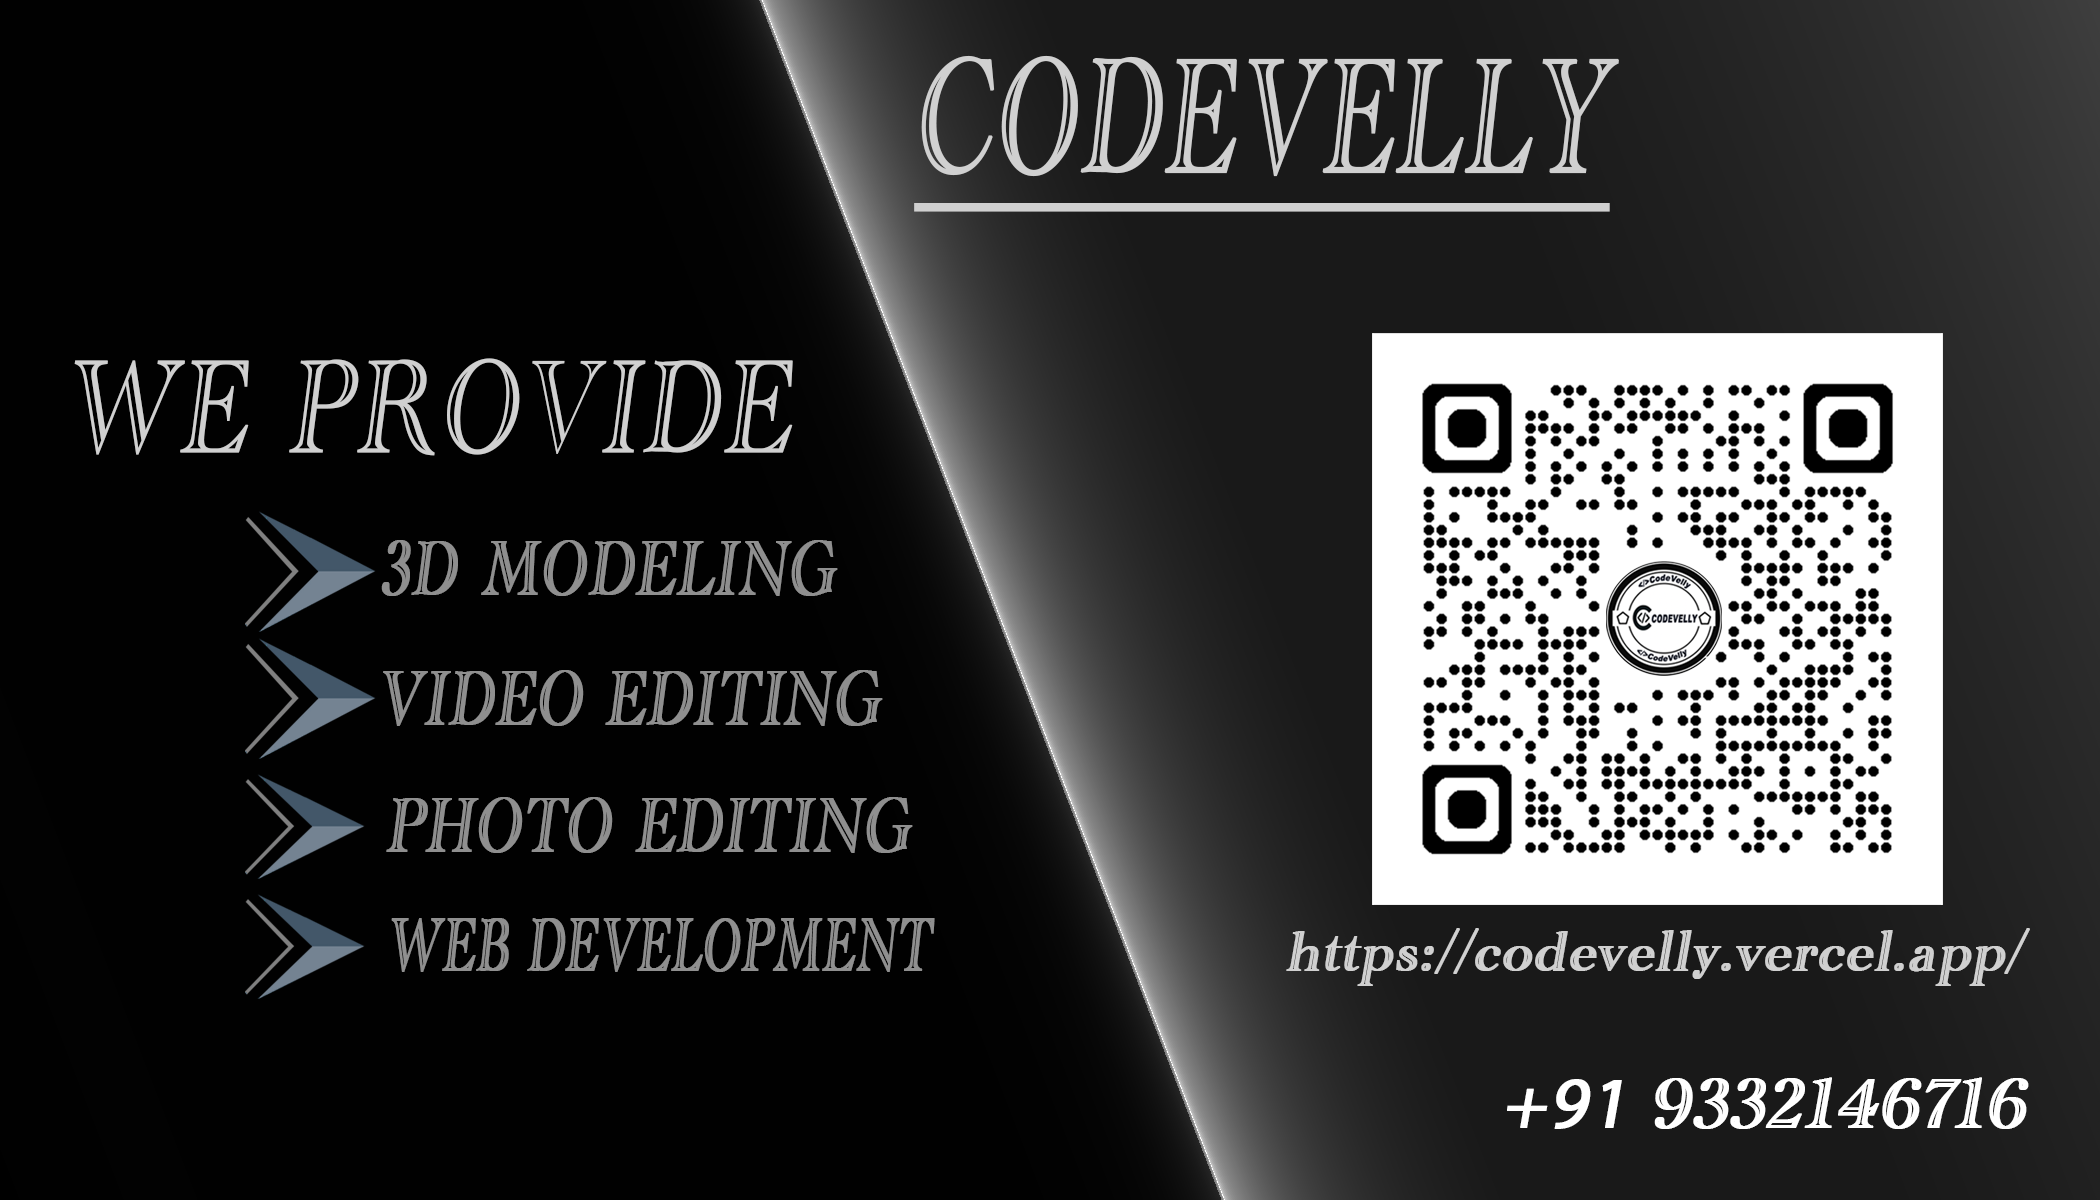
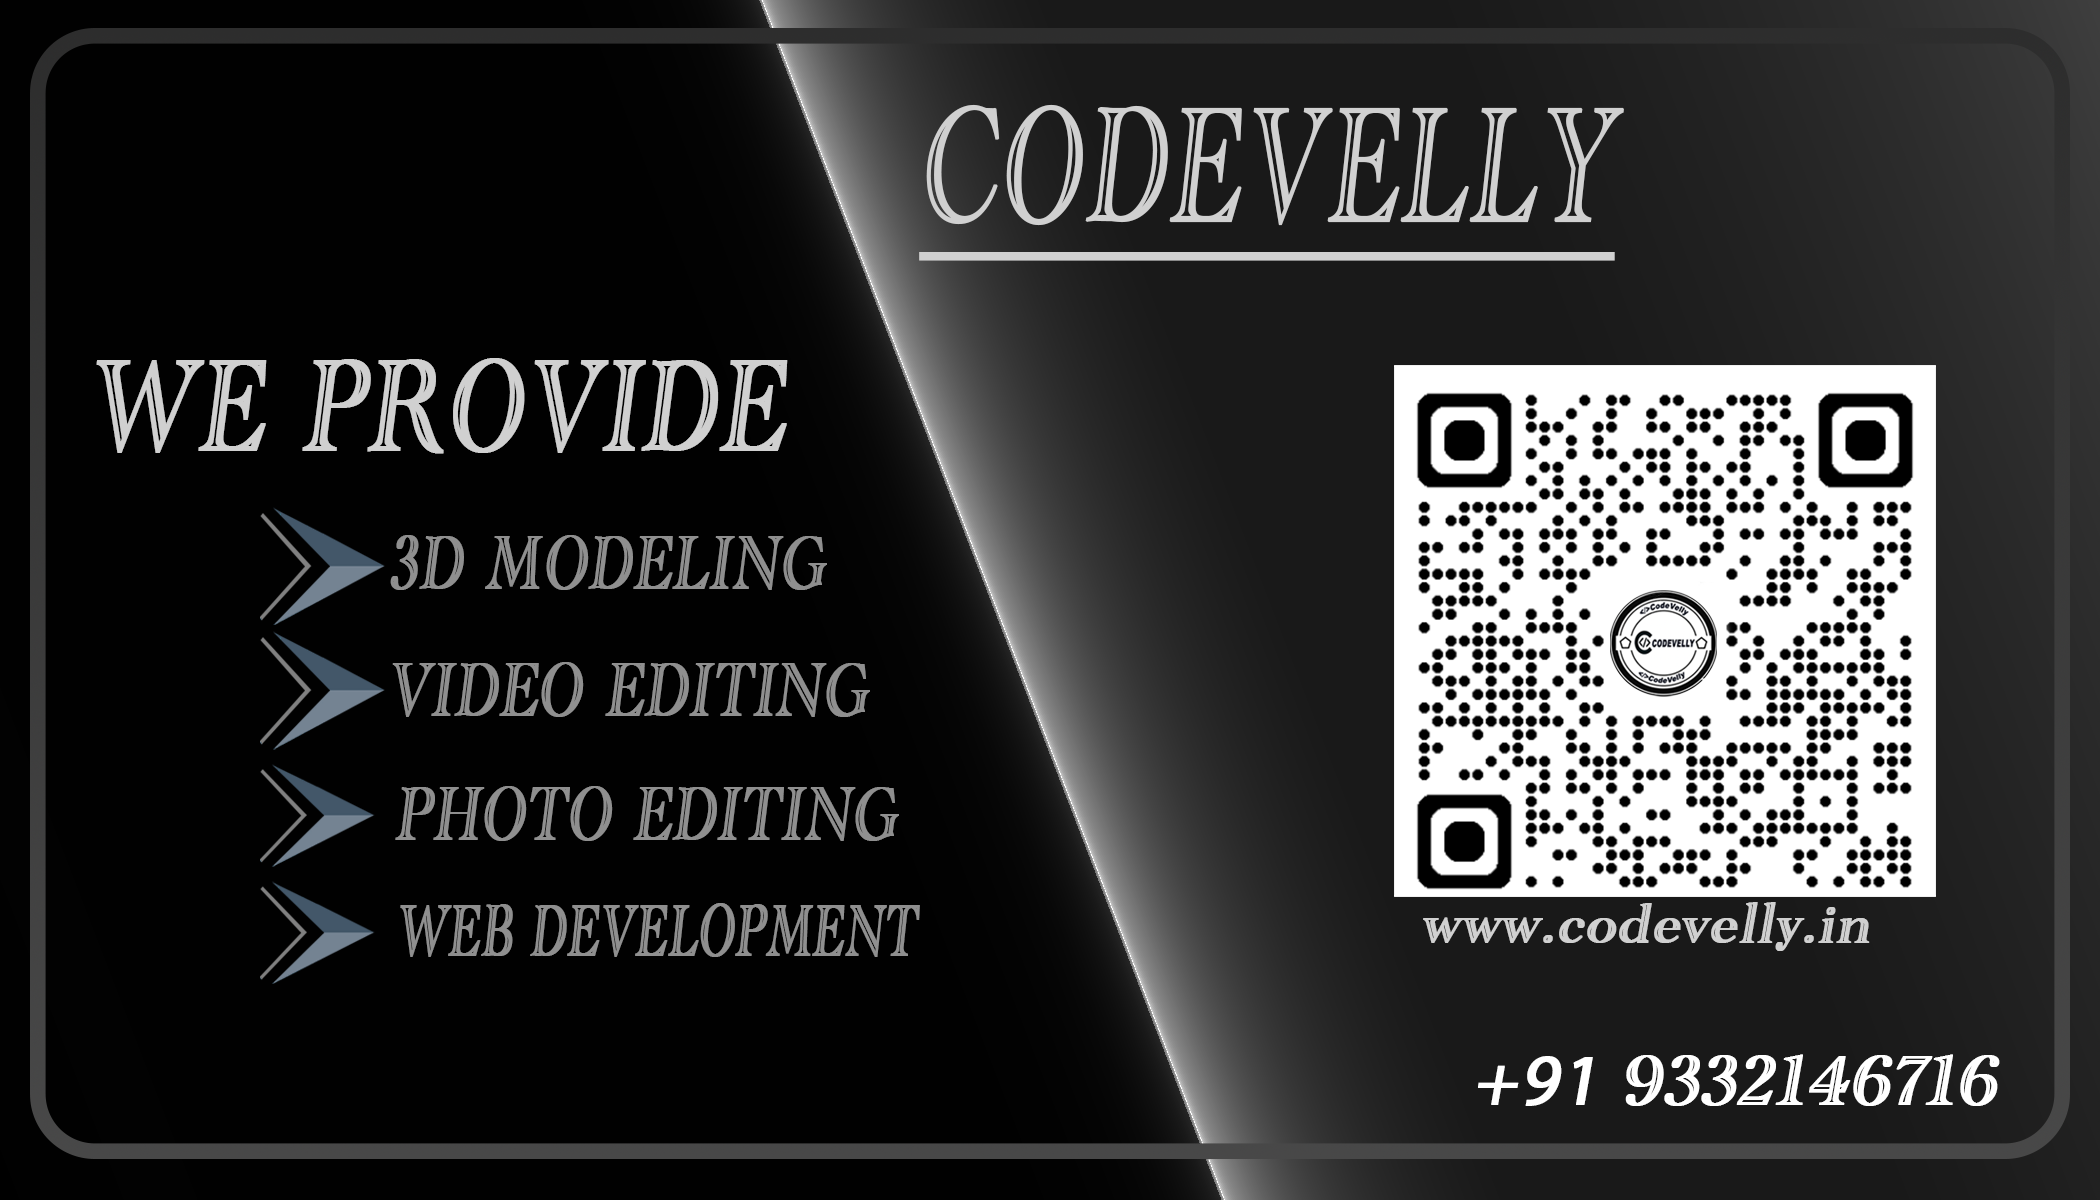
Add files via upload

diff --git a/index.html b/index.html
@@ -4,7 +4,7 @@
 <head>
     <meta charset="UTF-8">
     <meta name="viewport" content="width=device-width, initial-scale=1.0">
-    <title>codevelly BSN card</title>
+    <title>Document</title>
     <link rel="stylesheet" href="style.css">
 </head>
 
@@ -16,17 +16,17 @@
         <div id="crd" class="card">
             <div class="front">
 
-                <img class="img1" src="/Ass/BUSINESS_CARD_FRONT.png" alt="">
+                <img class="img1" src="Ass/BUSINESS_CARD_FRONT.png" alt="">
             </div>
 
             <div class="back">
 
-                <img class="img2" src="/Ass/BUSINESS_CARD_BACK.png" alt="">
+                <img class="img2" src="Ass/BUSINESS_CARD_BACK.png" alt="">
 
             </div>
         </div>
         <div class="Qr">
-            <img id="qrr" class="qr" src="/Ass/re.png" alt="">
+            <img id="qrr" class="qr" src="Ass/re.png" alt="">
         </div>
     </div>
 

diff --git a/script.js b/script.js
@@ -31,7 +31,7 @@ document.addEventListener("DOMContentLoaded", () => {
 
     const redirect = document.getElementById("W")
     redirect.addEventListener("click",()=>{
-        window.location.href = "https://codevelly.vercel.app/"
+        window.location.href = "https://www.codevelly.in/"
     })
 })
 
